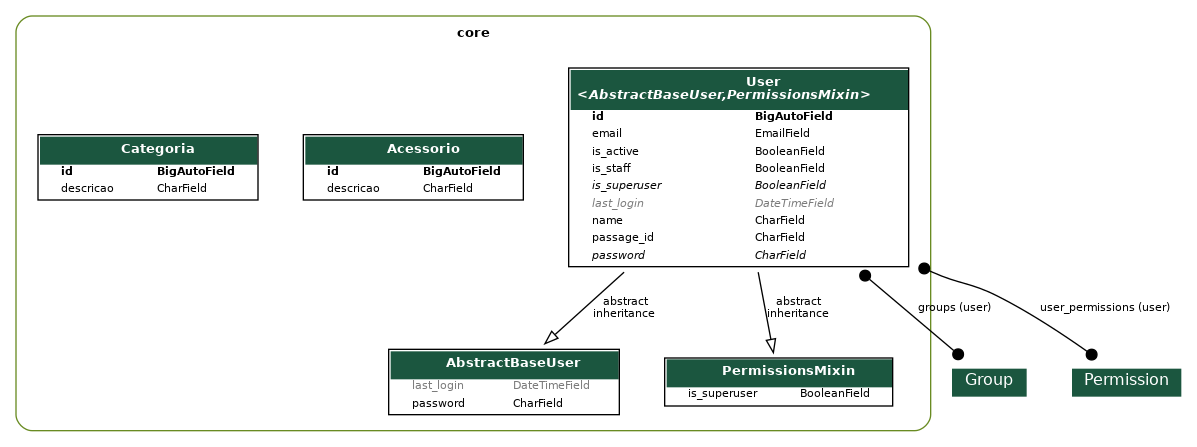
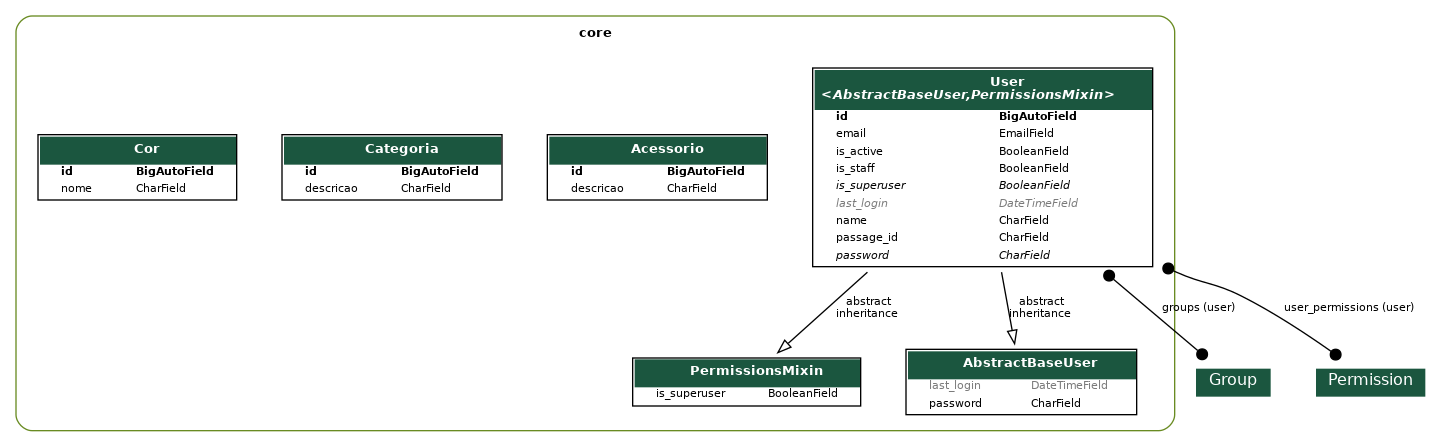
arrumar erro da url de cor

diff --git a/app/urls.py b/app/urls.py
@@ -9,13 +9,14 @@ from drf_spectacular.views import (
 from rest_framework.routers import DefaultRouter
 from rest_framework_simplejwt.views import TokenObtainPairView, TokenRefreshView
 
-from core.views import AcessorioViewSet, CategoriaViewset, UserViewSet
+from core.views import AcessorioViewSet, CategoriaViewset, CorViewset, UserViewSet
 
 router = DefaultRouter()
 
 router.register(r"usuarios", UserViewSet, basename="usuarios")
 router.register(r"categorias", CategoriaViewset, basename="categorias")
 router.register(r"acessorios", AcessorioViewSet, basename="acessorios")
+router.register(r"cores", CorViewSet, basename="cores")
 
 urlpatterns = [
     path("admin/", admin.site.urls),

diff --git a/core/migrations/0004_cor.py b/core/migrations/0004_cor.py
@@ -1,0 +1,24 @@
+# Generated by Django 5.0.6 on 2024-07-05 17:42
+
+from django.db import migrations, models
+
+
+class Migration(migrations.Migration):
+
+    dependencies = [
+        ("core", "0003_categoria_alter_acessorio_options"),
+    ]
+
+    operations = [
+        migrations.CreateModel(
+            name="Cor",
+            fields=[
+                ("id", models.BigAutoField(auto_created=True, primary_key=True, serialize=False, verbose_name="ID")),
+                ("nome", models.CharField(max_length=100)),
+            ],
+            options={
+                "verbose_name": "Cor",
+                "verbose_name_plural": "Cores",
+            },
+        ),
+    ]

diff --git a/core/models/cor.py b/core/models/cor.py
@@ -1,0 +1,12 @@
+from django.db import models
+
+
+class Cor(models.Model):
+    nome = models.CharField(max_length=100)
+
+    def __str__(self):
+        return f"{self.nome} ({self.id})"
+    
+    class Meta:
+        verbose_name = "Cor"
+        verbose_name_plural = "Cores"

diff --git a/core/views/cor.py b/core/views/cor.py
@@ -1,0 +1,9 @@
+from rest_framework.viewsets import ModelViewSet
+
+from core.models import Cor
+from core.serializers import CorSerializer
+
+
+class CorViewSet(ModelViewSet):
+    queryset = Cor.objects.order_by("id")
+    serializer_class = CorSerializer

diff --git a/core/admin.py b/core/admin.py
@@ -52,6 +52,7 @@ class UserAdmin(BaseUserAdmin):
 admin.site.register(models.User, UserAdmin)
 admin.site.register(models.Acessorio)
 admin.site.register(models.Categoria)
+admin.site.register(models.Cor)
 
 
 

diff --git a/core/serializers/cor.py b/core/serializers/cor.py
@@ -1,0 +1,9 @@
+from rest_framework.serializers import ModelSerializer
+
+from core.models import Cor
+
+
+class CorSerializer(ModelSerializer):
+    class Meta:
+        model = Cor
+        fields = "__all__"

diff --git a/core/serializers/__init__.py b/core/serializers/__init__.py
@@ -1,3 +1,5 @@
 from .user import UserSerializer
 from.acessorio import AcessorioSerializer
 from.categoria import CategoriaSerializer
+from.cor import CorSerializer
+

diff --git a/core/views/__init__.py b/core/views/__init__.py
@@ -1,3 +1,4 @@
 from .user import UserViewSet
 from .acessorio import AcessorioViewSet
 from.categoria import CategoriaViewset
+from.cor import CorViewset

diff --git a/core/models/__init__.py b/core/models/__init__.py
@@ -1,3 +1,5 @@
 from .user import User
 from .acessorio import Acessorio
 from.categoria import Categoria
+from.cor import Cor
+
